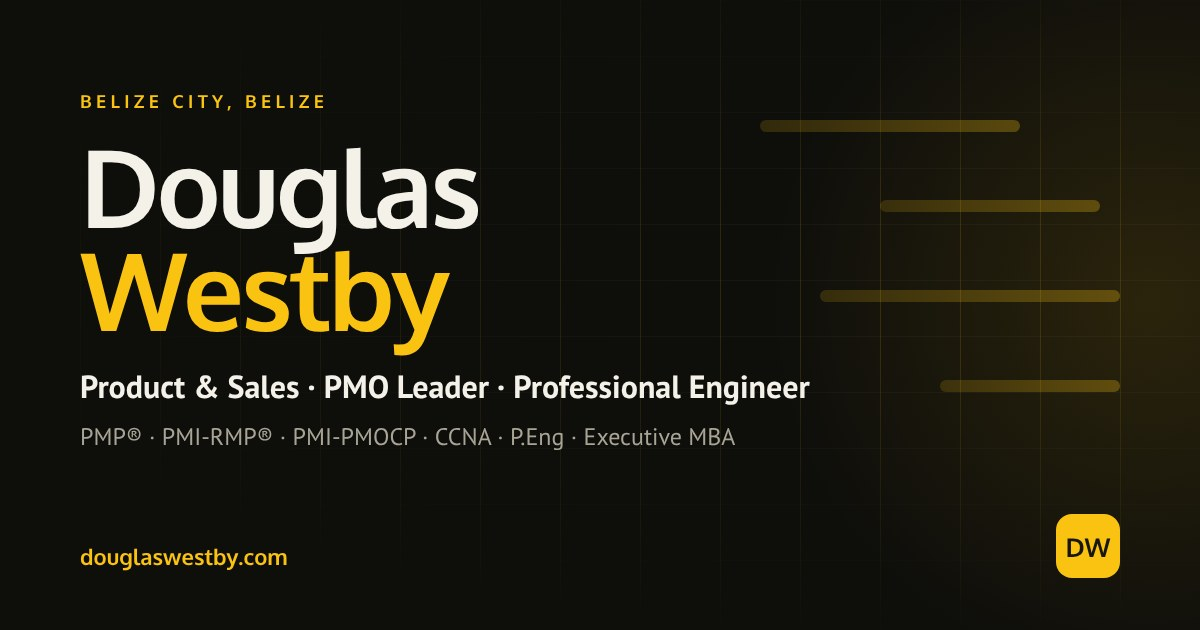
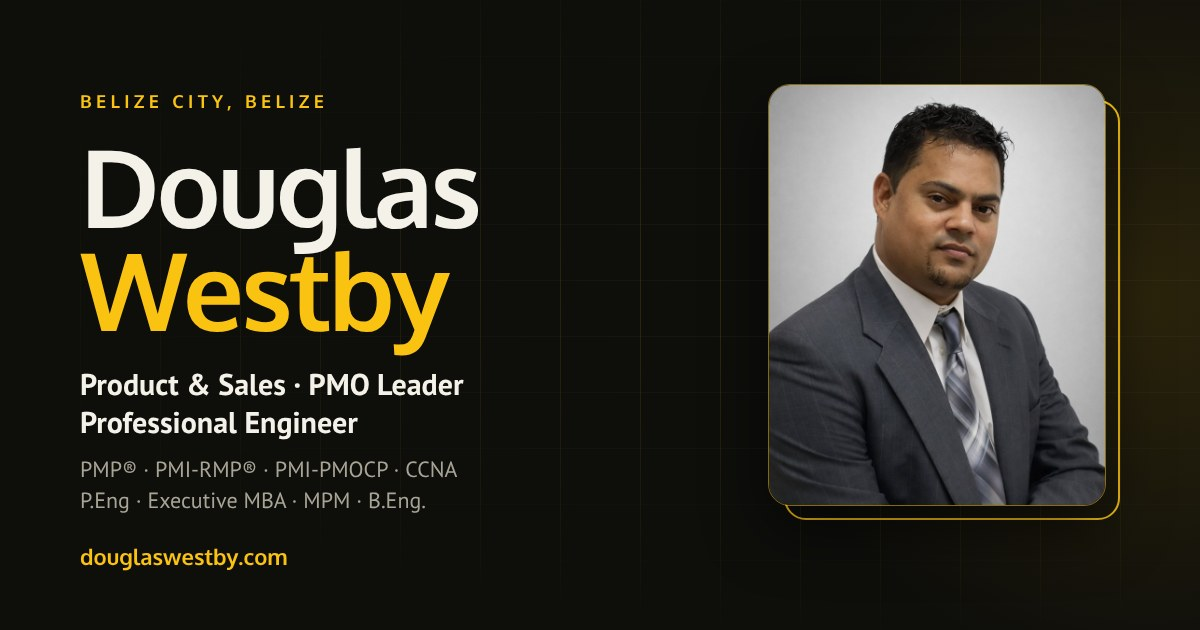
Add headshot, gold signature and photo search card (#10)
* Add headshot to the hero and a gold signature to the profile

Claude-Session: https://claude.ai/code/session_0165ayqWrHTcQEstaQQpoNHf

* Use the headshot in the link preview card and as the Google profile image

Claude-Session: https://claude.ai/code/session_0165ayqWrHTcQEstaQQpoNHf

---------

Changed region(s): [[0.0617, 0.1206, 0.9558, 0.9349], [0.0617, 0.7841, 0.37, 0.8143]]

diff --git a/index.html b/index.html
@@ -15,7 +15,7 @@
   <meta property="og:title" content="Douglas Westby | Product, PMO &amp; Engineering Leader in Belize">
   <meta property="og:description" content="Technology leader and Professional Engineer in Belize. Product &amp; sales, PMO leadership, PMP, PMI-RMP, PMI-PMOCP, CCNA, Executive MBA.">
   <meta property="og:url" content="https://douglaswestby.com/">
-  <meta property="og:image" content="https://douglaswestby.com/assets/og-image.jpg">
+  <meta property="og:image" content="https://douglaswestby.com/assets/og-image.jpg?v=2">
   <meta property="og:image:width" content="1200">
   <meta property="og:image:height" content="630">
   <meta property="og:image:alt" content="Douglas Westby: Product &amp; Sales, PMO Leader, Professional Engineer, Belize City">
@@ -24,7 +24,7 @@
   <meta name="twitter:card" content="summary_large_image">
   <meta name="twitter:title" content="Douglas Westby | Product, PMO &amp; Engineering Leader in Belize">
   <meta name="twitter:description" content="Technology leader and Professional Engineer in Belize. PMP, PMI-RMP, PMI-PMOCP, CCNA, Executive MBA.">
-  <meta name="twitter:image" content="https://douglaswestby.com/assets/og-image.jpg">
+  <meta name="twitter:image" content="https://douglaswestby.com/assets/og-image.jpg?v=2">
   <link rel="icon" href="/favicon.ico" sizes="any">
   <link rel="icon" type="image/png" sizes="192x192" href="/assets/icon-192.png">
   <link rel="apple-touch-icon" href="/apple-touch-icon.png">
@@ -38,7 +38,7 @@
       "name": "Douglas Westby",
       "alternateName": "Douglas M. O. Westby",
       "url": "https://douglaswestby.com/",
-      "image": "https://douglaswestby.com/assets/og-image.jpg",
+      "image": "https://douglaswestby.com/assets/headshot.jpg",
       "jobTitle": "TechCo Product & Sales Manager",
       "description": "Technology leader and Professional Engineer in Belize with over a decade across telecommunications, digital services and public-sector engineering.",
       "worksFor": {
@@ -285,7 +285,19 @@
       80% { transform: scaleX(1); opacity: 0.14; }
       100% { transform: scaleX(0.15); opacity: 0.05; }
     }
-    .hero-inner { position: relative; }
+    .hero-inner { position: relative; display: grid; grid-template-columns: minmax(0, 1fr) 360px; gap: 64px; align-items: center; }
+    .portrait { position: relative; margin: 0; justify-self: end; width: 100%; max-width: 360px; }
+    .portrait::before {
+      content: ""; position: absolute; inset: 0; transform: translate(14px, 14px);
+      border: 1px solid var(--accent-dim); border-radius: 20px;
+    }
+    .portrait img {
+      position: relative; display: block; width: 100%; height: auto; aspect-ratio: 4 / 5; object-fit: cover;
+      border-radius: 20px; border: 1px solid rgba(250,195,18,0.35);
+      box-shadow: 0 24px 60px rgba(0,0,0,0.55), 0 0 0 6px rgba(250,195,18,0.06);
+      filter: saturate(0.92) contrast(1.03);
+    }
+    .signature { display: block; width: 230px; max-width: 70%; height: auto; margin: 26px 0 0 -6px; opacity: 0.95; }
     .eyebrow {
       display: inline-flex; align-items: center; gap: 10px;
       font: 700 12px/1 "Oxygen", sans-serif; letter-spacing: 0.24em; text-transform: uppercase;
@@ -493,6 +505,10 @@
 
     /* ---------- Responsive ---------- */
     @media (max-width: 980px) {
+      .hero-inner { grid-template-columns: 1fr; gap: 0; }
+      .portrait { order: -1; justify-self: start; width: 190px; margin-bottom: 34px; }
+      .portrait::before { transform: translate(9px, 9px); border-radius: 16px; }
+      .portrait img { border-radius: 16px; }
       .skills-grid { grid-template-columns: repeat(2, 1fr); }
       .about-grid { grid-template-columns: 1fr; gap: 28px; }
       .two-col { grid-template-columns: 1fr; }
@@ -583,6 +599,7 @@
         <div class="bar" style="top:86%; left:74%; width:20%; animation-delay:1.6s"></div>
       </div>
       <div class="wrap hero-inner">
+        <div class="hero-text">
         <div class="eyebrow"><span class="dot"></span>Belize City, Belize</div>
         <h1>Douglas<br><span>Westby</span></h1>
         <p class="role" aria-live="polite"><b id="role">B2B Product &amp; Sales Manager</b><span class="cursor" aria-hidden="true"></span></p>
@@ -610,6 +627,10 @@
           <li>MPM<small>UCI-GSPM</small></li>
           <li>B.Eng.<small>CUJAE</small></li>
         </ul>
+        </div>
+        <figure class="portrait">
+          <img src="assets/headshot.jpg" alt="Douglas Westby" width="720" height="900" fetchpriority="high">
+        </figure>
       </div>
     </section>
 
@@ -634,6 +655,7 @@
           <div class="reveal">
             <p class="big">Douglas currently leads <em>B2B product and sales</em> for Digi's cloud, cybersecurity and managed IT portfolio, after three years heading the <em>Project Management Office</em> and a BZ$10M+ annual project portfolio.</p>
             <p class="section-intro">He holds PMP, PMI-RMP and PMI-PMOCP credentials, is a registered Professional Engineer in telecommunications and electronics, and has an Executive MBA. His work centres on clear governance, managing risk, and leading cross-functional teams to results.</p>
+            <img class="signature" src="assets/signature-gold.png" alt="Douglas Westby signature" width="603" height="299" loading="lazy">
           </div>
           <dl class="facts reveal">
             <div><dt>Current role</dt><dd>TechCo Product &amp; Sales Manager</dd></div>
